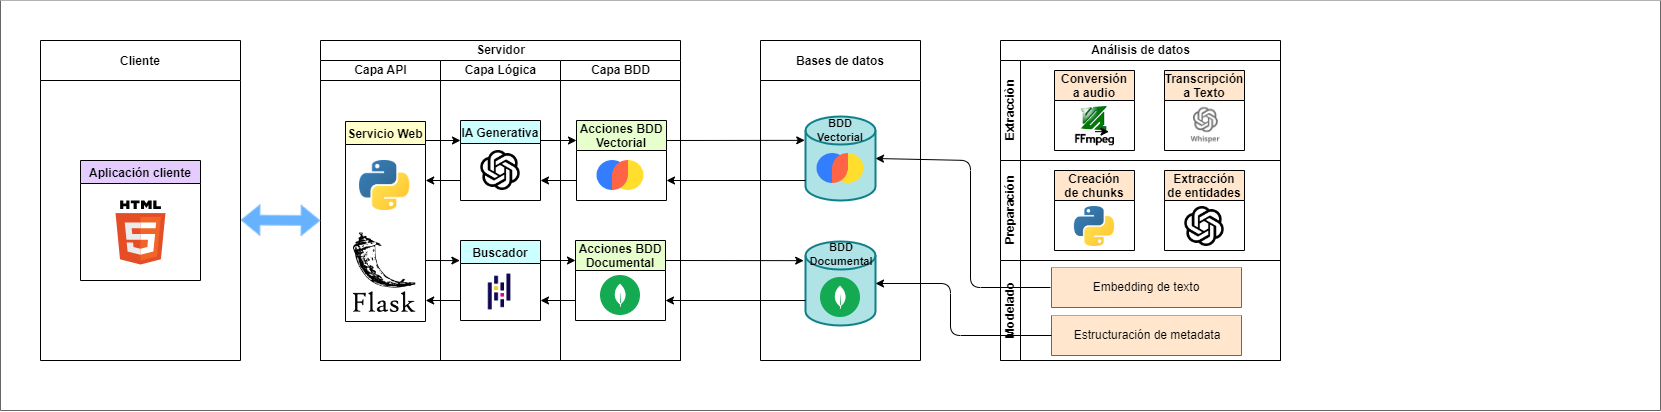
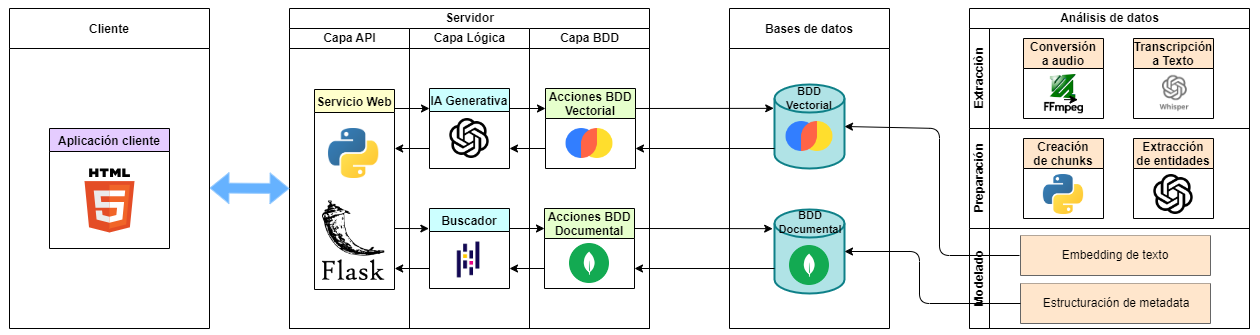
Se agrega almacenamiento en MongoDB

diff --git a/app.py b/app.py
@@ -1,7 +1,12 @@
 import os
 import whisper
 import torch
+import pymongo
 from moviepy.editor import VideoFileClip
+
+# Verificar si CUDA está disponible
+device = "cuda" if torch.cuda.is_available() else "cpu"
+print(device)
 
 def change_video_extension_to_mp3(video_file):
   """
@@ -34,8 +39,56 @@ def convert_video_to_audio(video_file, audio_file, end_time=600, bitrate="1600k"
         bitrate (str): Tasa de bits del audio de salida (por defecto, 1600 kbps).
     """
     video = VideoFileClip(video_file).subclip(0, end_time)  # Recorta el video hasta end_time
+    duration = video.duration  # Duración en segundos
+    size = video.size  # Tamaño en bytes (ancho, alto)
+
+    # Convertir tamaño a MB (opcional)
+    size_mb = (size[0] * size[1] * 3) / (1024 * 1024) 
     audio = video.audio
     audio.write_audiofile(audio_file, bitrate=bitrate)
+
+    return duration, size_mb
+
+# Cargar el modelo en el dispositivo adecuado (GPU o CPU)
+#tiny base small medium large
+model = whisper.load_model("tiny").to(device)
+
+def get_transcript(audio_file):
+    # Transcribir el audio, especificando el dispositivo
+    result = model.transcribe(audio_file)
+
+    # Imprimir el texto transcrito
+
+    list_transcriptions = []
+
+    for i in result['segments']:
+        list_transcriptions.append({
+            "Id": i['id'],
+            "StartTime": i['start'],
+            "EndTime": i['end'],
+            "Text": i['text']
+        })
+        print(i['id'], i['start'], i['end'], i['text'])
+    
+    return list_transcriptions
+
+def save_mongodb(data):
+    # Conexión al servidor MongoDB (reemplaza con tus datos)
+    client = pymongo.MongoClient("mongodb://localhost:27017/")  
+
+    # Nombre de la base de datos y colección
+    db_name = "Metadata"
+    collection_name = "Transcription"
+
+    # Obtener la base de datos y colección (se crea si no existe)
+    db = client[db_name]
+    collection = db.get_collection(collection_name)
+
+    # Insertar el documento
+    resultado = collection.insert_one(data)
+
+    # Imprimir el ID del documento insertado
+    print("Documento insertado con ID:", resultado.inserted_id)
 
 audios_list = []
 path_videos = 'Videos/'
@@ -46,25 +99,13 @@ for folder in folders:
         if '.mp3' not in file:
             video_file = f'{path_videos}{folder}/{file}'
             audio_file = change_video_extension_to_mp3(video_file)
-            convert_video_to_audio(video_file, audio_file)
+            duration, size_mb = convert_video_to_audio(video_file, audio_file)
             audios_list.append(audio_file)
-
-
-# Verificar si CUDA está disponible
-device = "cuda" if torch.cuda.is_available() else "cpu"
-print(device)
-
-# Cargar el modelo en el dispositivo adecuado (GPU o CPU)
-model = whisper.load_model("tiny").to(device)
-#tiny base small medium large
-
-# Ruta al archivo de audio que quieres transcribir
-audio_path = audios_list[0]
-
-# Transcribir el audio, especificando el dispositivo
-result = model.transcribe(audio_path)
-
-# Imprimir el texto transcrito
-
-for i in result['segments']:
-    print(i['id'], i['start'], i['end'], i['text'])
+            list_transcriptions = get_transcript(audio_file)
+            data_video = {
+                "FileName": file,
+                "Duration": duration,
+                "SizeMb": size_mb,
+                "Transcription": list_transcriptions
+            }
+            save_mongodb(data_video)
